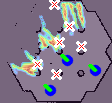
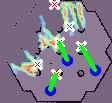
ajout correction attribution point interêt aux robot

Changed region(s): [[0.6964, 0.4369, 0.8839, 0.699], [0.375, 0.699, 0.5357, 0.9029], [0.5089, 0.3786, 0.6161, 0.6117]]

diff --git a/main.py b/main.py
@@ -203,39 +203,59 @@ class DetectionPointsInteretsUltraUltra:
 
 
 # -------- Multi-robots simplifié --------
+from scipy.optimize import linear_sum_assignment
+
 class MultiRobotUltraUltra:
-    def __init__(self, heatmap: np.ndarray, robots: List[Tuple[int,int]]):
+    def __init__(self, heatmap: np.ndarray, robots: List[Tuple[int,int]], points_interet: List[Tuple[int,int,float]]):
+        """
+        :param heatmap: heatmap normalisée
+        :param robots: liste de positions initiales des robots [(x, y), ...]
+        :param points_interet: liste de points d'intérêt [(x, y, score), ...]
+        """
         self.heatmap = heatmap
         self.robots = robots
+        self.points_interet = points_interet
 
-    def choose_targets(self, radius: int = 5) -> List[Tuple[int,int]]:
-        targets = []
-        for (rx, ry) in self.robots:
-            x0, x1 = max(0, rx-radius), min(self.heatmap.shape[1], rx+radius+1)
-            y0, y1 = max(0, ry-radius), min(self.heatmap.shape[0], ry+radius+1)
-            local = self.heatmap[y0:y1, x0:x1]
-            if local.size == 0:
-                targets.append(None)
-                continue
-            y, x = np.unravel_index(np.argmax(local), local.shape)
-            targets.append((x + x0, y + y0))
+    def choose_targets_unique(self) -> List[Tuple[int,int]]:
+        """
+        Assigne à chaque robot un point d'intérêt unique (aucun partage) 
+        en minimisant la distance totale robot-point.
+        """
+        if len(self.points_interet) == 0 or len(self.robots) == 0:
+            return [None]*len(self.robots)
+
+        # Matrice des distances (coût) robots ↔ points d’intérêt
+        cost_matrix = np.zeros((len(self.robots), len(self.points_interet)), dtype=np.float32)
+        for i, (rx, ry) in enumerate(self.robots):
+            for j, (px, py, _) in enumerate(self.points_interet):
+                cost_matrix[i, j] = np.hypot(px - rx, py - ry)
+
+        # Assignation optimale
+        row_ind, col_ind = linear_sum_assignment(cost_matrix)
+
+        # Création de la liste des cibles
+        targets = [None]*len(self.robots)
+        for r, c in zip(row_ind, col_ind):
+            targets[r] = (self.points_interet[c][0], self.points_interet[c][1])
+
         return targets
+
 
 
 # ---------------- Exemple ----------------
 if __name__ == "__main__":
     det = DetectionPointsInteretsUltraUltra("map.pgm", top_k=50)
     robots = [(67,60), (50,90), (95,70)]
-    multi = MultiRobotUltraUltra(det.heatmap_normalisee, robots)
-    targets = multi.choose_targets(radius=5)
 
-    # Exemple de chemins (ici ligne droite simple)
+    multi = MultiRobotUltraUltra(det.heatmap_normalisee, robots, det.points_interet)
+    targets = multi.choose_targets_unique()
+
+    # Création de chemins simples
     paths = []
     for r, t in zip(robots, targets):
         if t is None:
             paths.append([])
         else:
-            # Ligne droite simplifiée pour l'exemple
             num_pts = 50
             xs = np.linspace(r[0], t[0], num_pts, dtype=int)
             ys = np.linspace(r[1], t[1], num_pts, dtype=int)
@@ -243,3 +263,4 @@ if __name__ == "__main__":
 
     # Enregistrement final
     det.enregistrer_heatmap_overlay_points_robots(robots, targets, paths)
+
